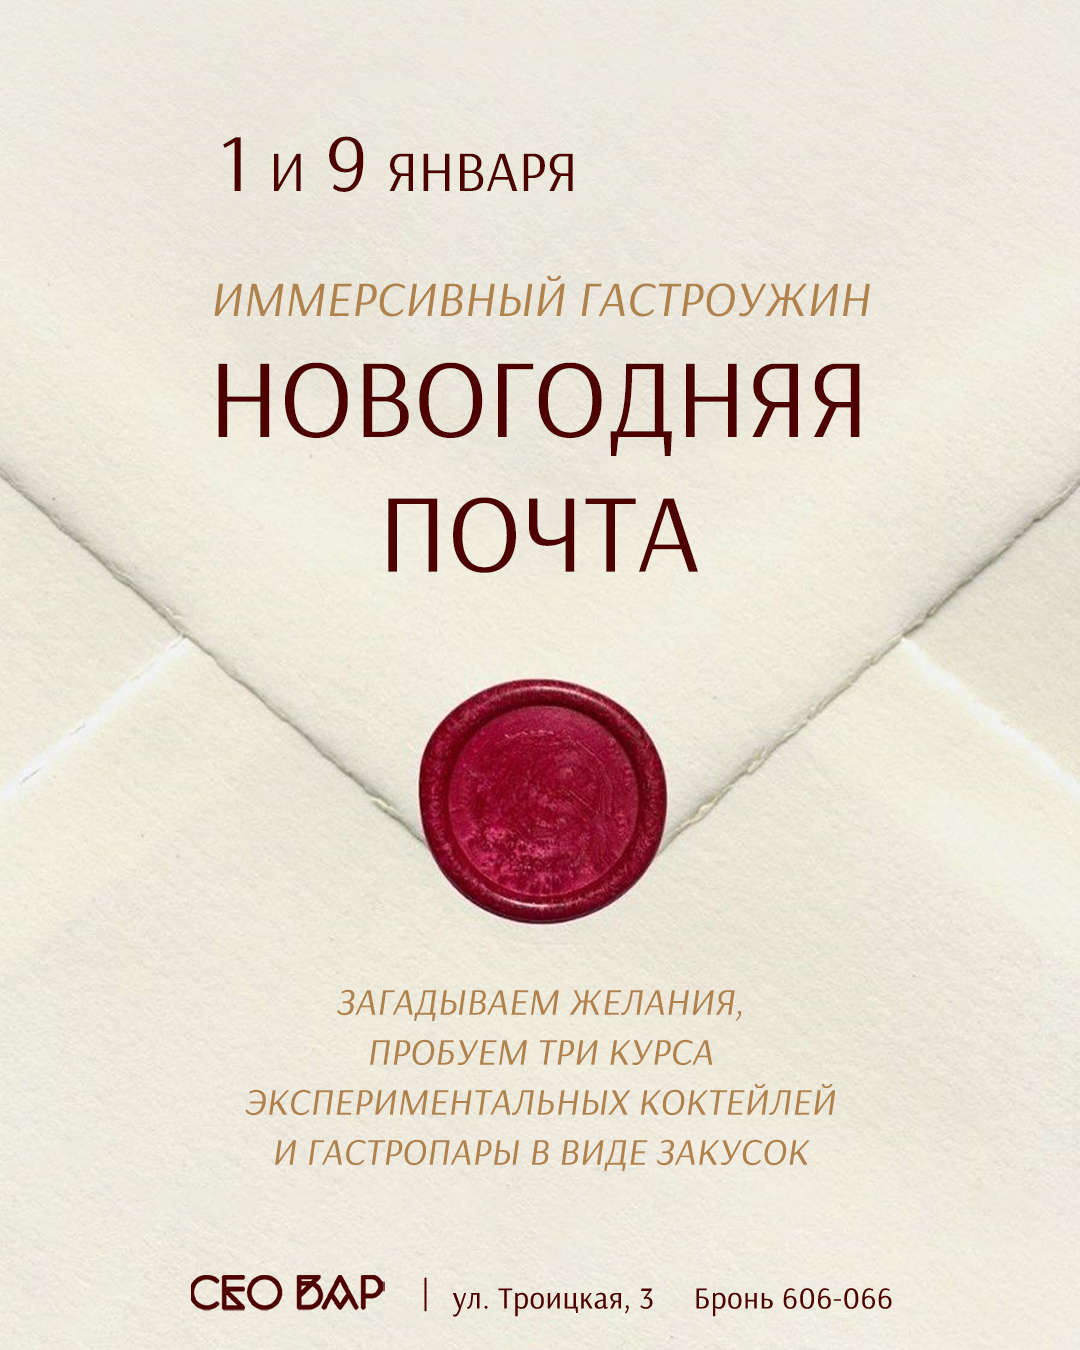
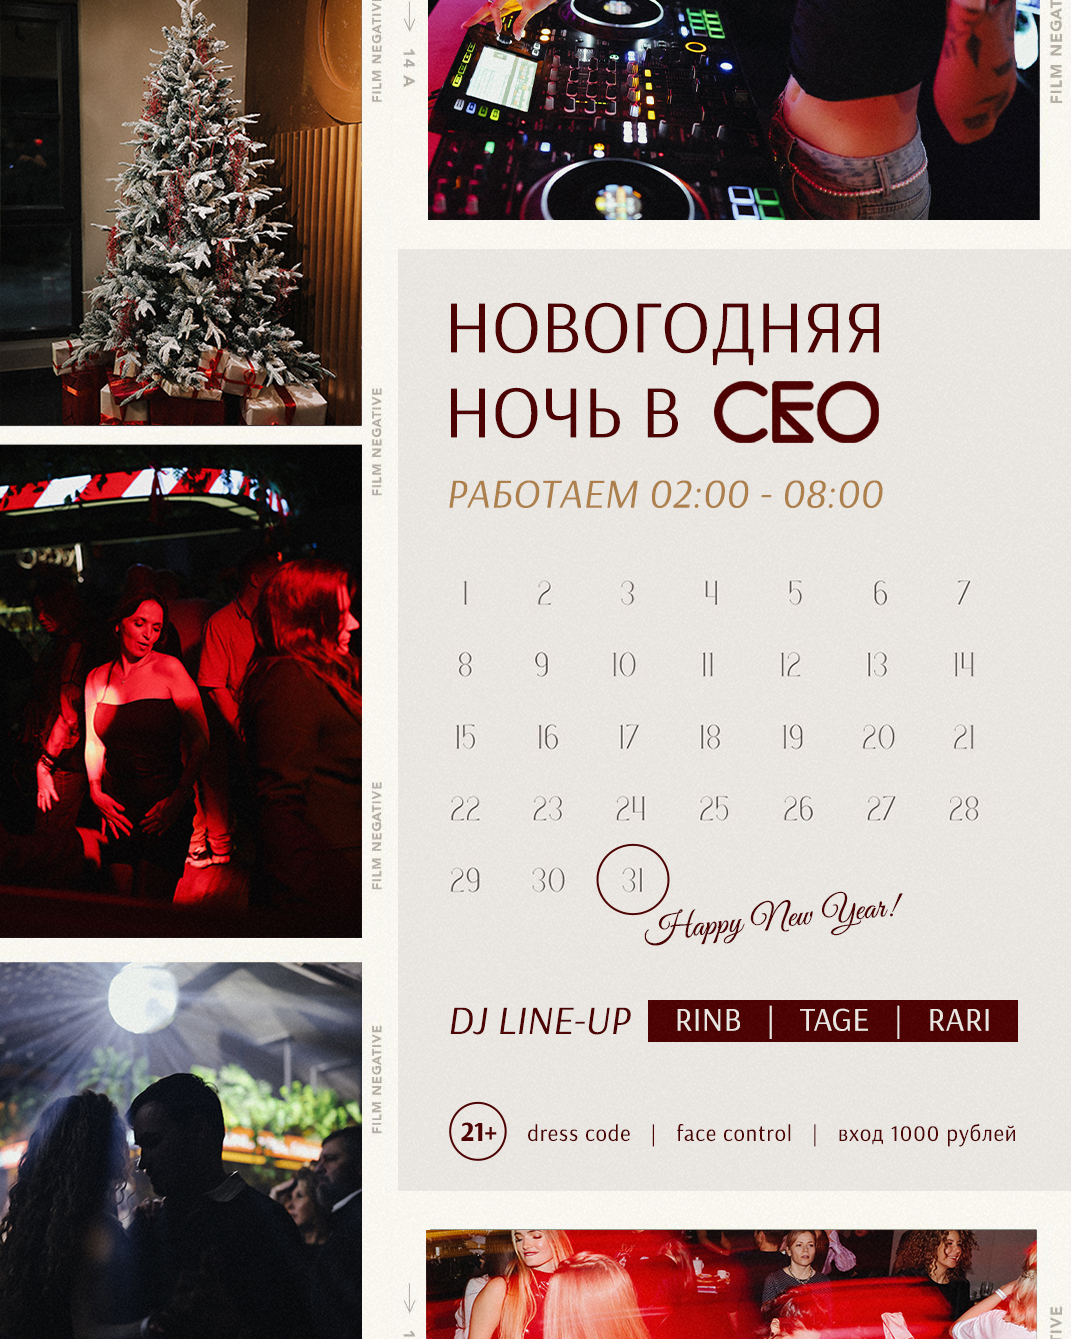
un new year

diff --git a/index_adaptive.html b/index_adaptive.html
@@ -277,7 +277,6 @@
             </div>
             <div class="flex space-x-3">
                 <a href="#menu" class="text-black hover:text-gray-600">МЕНЮ</a>
-                <a href="#newyear" class="text-black hover:text-gray-600">NEW YEAR</a>
                 <a href="https://yandex.ru/maps/24/veliky-novgorod/?ll=31.273868%2C58.516037&mode=poi&poi%5Bpoint%5D=31.273999%2C58.516561&poi%5Buri%5D=ymapsbm1%3A%2F%2Forg%3Foid%3D215421611704&tab=reviews&z=17" class="text-black hover:text-gray-600">ОТЗЫВЫ</a>
                 <a href="#lunch" class="text-black hover:text-gray-600">ОБЕД</a>
                 <a href="https://831437.restoplace.ws" class="text-black hover:text-gray-600">БРОНЬ</a>
@@ -376,46 +375,6 @@
       </div>
     </div>
   </div>
-</section>
-
-<section id="newyear" class="bg-[#e3deda] rounded-xl mx-3 my-6 p-6">
-  <div class="bg-[#2e2c2f] rounded-xl p-4 mb-4">
-    <h2 class="text-[#e3deda] text-center font-semibold">НОВОГОДНИЕ ВСТРЕЧИ В СЕО BAR</h2>
-  </div>
-
-    <div class="grid grid-cols-2 gap-3 sm:gap-4">
-      <div class="aspect-square w-full bg-gray-200 rounded-lg overflow-hidden img-placeholder">
-        <img src="pic/ny1.jpg" alt="Новогоднее оформление CEO BAR" class="w-full h-full object-cover lazy" loading="lazy"/>
-      </div>
-      <div class="aspect-square w-full bg-gray-200 rounded-lg overflow-hidden img-placeholder">
-        <img src="pic/ny2.jpg" alt="Новогоднее празднование CEO BAR" class="w-full h-full object-cover lazy" loading="lazy"/>
-      </div>
-    </div>
-    <br/>
-  <p class="font-semibold text-[#2e2c2f]">Предновогодние праздники</p>
-  <p class="text-[#2e2c2f] text-sm leading-relaxed">
-    Открыты даты для бронирования корпоративных праздников: 18 и 25 декабря (а также есть возможность забронировать дни индивидуально с закрытием ресторана)
-Для вас - банкетное меню и программа с ведущим в стильном праздничном оформлении заведения.
-  </p>
-  <br/>
-  <a href="/files/NewYear.pdf" target="_blank"
-     class="block bg-[#db9e5e] text-[#e3deda] py-3 px-6 rounded-lg font-semibold hover:bg-[#c98f50] transition duration-200 text-center">
-    Узнать подробнее
-  </a>
-    <br/>
-  <p class="font-semibold text-[#2e2c2f]">Новогодняя ночь</p>
-  <p class="text-[#2e2c2f] text-sm leading-relaxed">
-    В ночь с 31 декабря на 1 января CEO BAR работает с 02:00 до 07:00
-За dj-пультом - резиденты CEO BAR.
-Система бронирования в этот день не работает, вход 1000 рублей.
-  <br/>
-    <br/>
-  <p class="font-semibold text-[#2e2c2f]">Новогодние праздники</p>
-  <p class="text-[#2e2c2f] text-sm leading-relaxed">
-С 1 по 10 января CEO BAR работает с 18:00 до 05:00
-О выступлении артистов в эти дни можно ознакомиться в разделе СОБЫТИЯ ближе к заявленным датам.
-11 января CEO BAR не работает.
-  <br/>
 </section>
 
   <!-- Секция контактов -->
